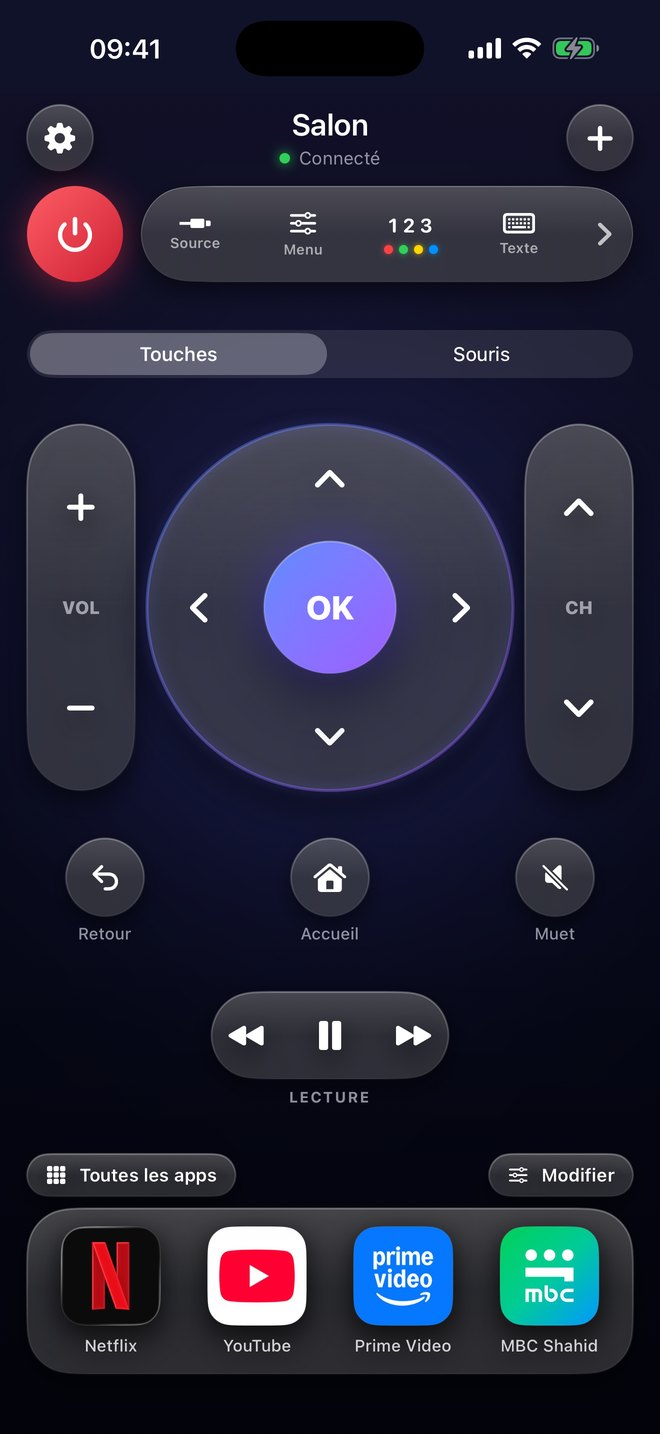
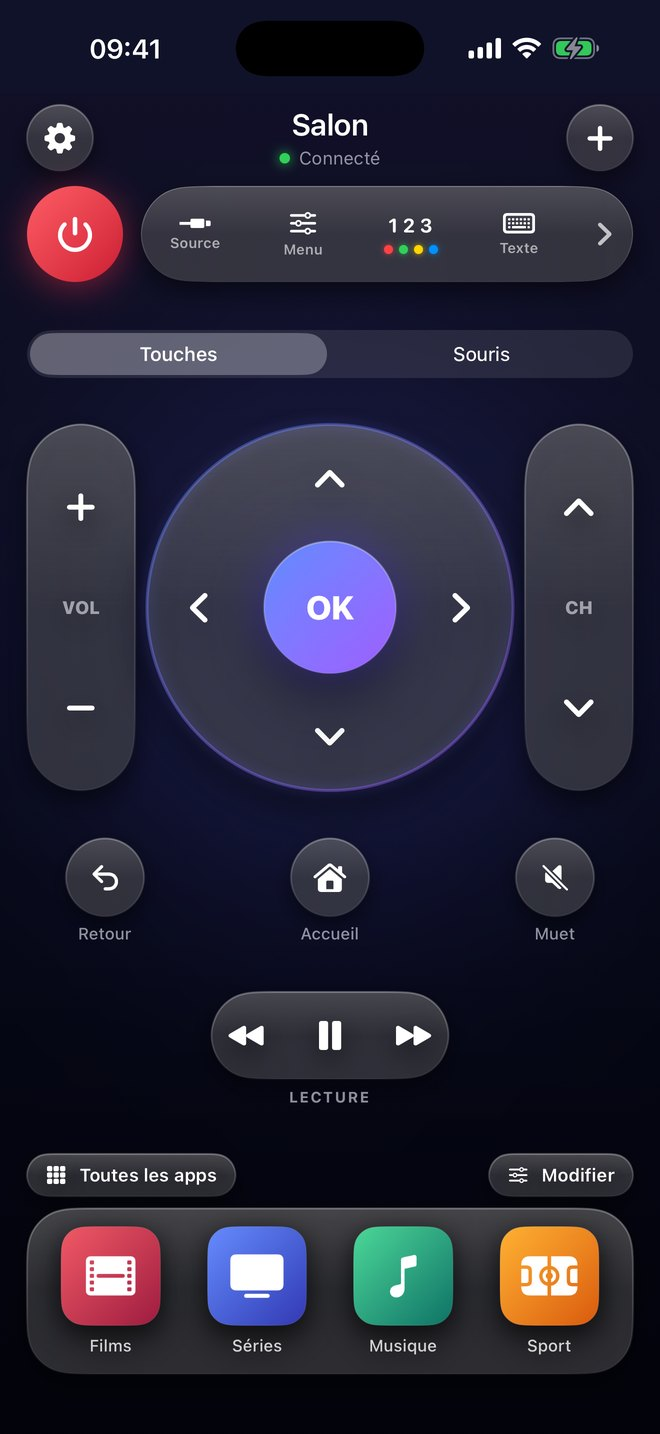
Website aktualisiert: neue Bilder, Uhr-Bild, Impressum ohne Telefonnummer

diff --git a/fr/index.html b/fr/index.html
@@ -38,12 +38,12 @@
     <h2>Comme une vraie télécommande.</h2>
     <p class="einleitung">En plus beau, et toujours sur vous. Tout ce qu’il faut pour la soirée sur un seul écran, sans défiler.</p>
     <div class="karten">
-      <div class="karte"><div class="zeichen">🎚</div><h3>Des touches à toucher</h3><p>Le volume et les chaînes sont de longues touches à bascule qui s’inclinent. La croix directionnelle s’enfonce et chaque touche clique.</p></div>
-      <div class="karte"><div class="zeichen">📺</div><h3>Des apps d’un toucher</h3><p>Lancez Shahid, Netflix, YouTube, Prime Video et toutes les autres apps de votre téléviseur. Vos favorites sont dans la barre du bas.</p></div>
-      <div class="karte"><div class="zeichen">🔊</div><h3>Boutons de l’iPhone pour le volume</h3><p>Tant que l’app est ouverte, les boutons de volume de l’iPhone règlent le téléviseur.</p></div>
-      <div class="karte"><div class="zeichen">🗣</div><h3>Siri et Raccourcis</h3><p>« Shahid avec Teek Taike », « Volume plus avec Teek Taike ». Aussi dans le Centre de contrôle et comme minuterie avec une automatisation.</p></div>
-      <div class="karte"><div class="zeichen">⌨</div><h3>Pavé tactile et clavier</h3><p>Pour la recherche dans les apps et le navigateur du téléviseur : tapez au lieu de choisir chaque lettre.</p></div>
-      <div class="karte"><div class="zeichen">🌍</div><h3>Français, anglais, allemand</h3><p>L’app parle la langue de votre iPhone. Passez d’un téléviseur à l’autre d’un glissement.</p></div>
+      <div class="karte"><div class="zeichen" style="--symbol:url(../bilder/symbole/tippen.png)"></div><h3>Des touches à toucher</h3><p>Le volume et les chaînes sont de longues touches à bascule qui s’inclinent. La croix directionnelle s’enfonce et chaque touche clique.</p></div>
+      <div class="karte"><div class="zeichen" style="--symbol:url(../bilder/symbole/apps.png)"></div><h3>Des apps d’un toucher</h3><p>Lancez vos apps de streaming et toutes les autres apps de votre téléviseur. Vos favorites sont dans la barre du bas.</p></div>
+      <div class="karte"><div class="zeichen" style="--symbol:url(../bilder/symbole/lautstaerke.png)"></div><h3>Boutons de l’iPhone pour le volume</h3><p>Tant que l’app est ouverte, les boutons de volume de l’iPhone règlent le téléviseur.</p></div>
+      <div class="karte"><div class="zeichen" style="--symbol:url(../bilder/symbole/mikrofon.png)"></div><h3>Siri et Raccourcis</h3><p>« Volume plus avec Teek Taike », « Éteins la télé avec Teek Taike ». Aussi dans le Centre de contrôle et comme minuterie avec une automatisation.</p></div>
+      <div class="karte"><div class="zeichen" style="--symbol:url(../bilder/symbole/tastatur.png)"></div><h3>Pavé tactile et clavier</h3><p>Pour la recherche dans les apps et le navigateur du téléviseur : tapez au lieu de choisir chaque lettre.</p></div>
+      <div class="karte"><div class="zeichen" style="--symbol:url(../bilder/symbole/sprachen.png)"></div><h3>Français, anglais, allemand</h3><p>L’app parle la langue de votre iPhone. Passez d’un téléviseur à l’autre d’un glissement.</p></div>
     </div>
   </section>
 
@@ -70,10 +70,9 @@
     <h2>Quels téléviseurs ?</h2>
     <p class="einleitung">Le téléviseur et l’iPhone doivent être sur le même Wi‑Fi. À la première connexion, le téléviseur demande une fois « Autoriser ? », ensuite tout fonctionne tout seul.</p>
     <div class="tvliste">
-      <div class="karte"><span class="status ja">Compatible</span><h3>Samsung Smart TV</h3><p>Avec Tizen, à partir des modèles 2016 environ. Testé avec un Samsung QLED de 2025. Pour l’allumer via le Wi‑Fi, activez « Allumer avec un mobile » (Paramètres › Général › Réseau › Paramètres experts).</p></div>
-      <div class="karte"><span class="status bald">En préparation</span><h3>LG webOS, Sony Bravia et Roku</h3><p>Déjà intégrés, ils arriveront par une mise à jour une fois testés sur de vrais appareils.</p></div>
-      <div class="karte"><span class="status nein">Pas encore</span><h3>Autres</h3><p>Hisense, Philips, Google TV, Android TV et Fire TV ne sont pas encore pris en charge.</p></div>
-      <div class="karte"><span class="status ja">Bon à savoir</span><h3>Les apps appartiennent à leurs éditeurs</h3><p>Les apps fonctionnent sur votre téléviseur. Teek Taike ne fait que les lancer et n’a aucun lien avec les fabricants ou les éditeurs.</p></div>
+      <div class="karte"><div class="zeichen klein" style="--symbol:url(../bilder/symbole/fernseher.png)"></div><span class="status ja">Compatible</span><h3>Samsung Smart TV</h3><p>Avec Tizen, à partir des modèles 2016 environ. Testé avec un Samsung QLED de 2025. Pour l’allumer via le Wi‑Fi, activez « Allumer avec un mobile » (Paramètres › Général › Réseau › Paramètres experts).</p></div>
+      <div class="karte"><div class="zeichen klein" style="--symbol:url(../bilder/symbole/wlan.png)"></div><span class="status bald">En préparation</span><h3>D’autres marques</h3><p>D’autres téléviseurs arriveront par une mise à jour une fois testés sur de vrais appareils.</p></div>
+      <div class="karte"><div class="zeichen klein" style="--symbol:url(../bilder/symbole/apps.png)"></div><span class="status ja">Bon à savoir</span><h3>Les apps appartiennent à leurs éditeurs</h3><p>Les apps fonctionnent sur votre téléviseur. Teek Taike ne fait que les lancer et n’a aucun lien avec les fabricants ou les éditeurs.</p></div>
     </div>
   </section>
 
@@ -81,8 +80,8 @@
     <h2>Vos données restent chez vous.</h2>
     <p class="einleitung">Pas de compte, pas de publicité, pas d’analyse, pas de suivi. L’app communique directement avec votre téléviseur sur le Wi‑Fi.</p>
     <div class="schutz">
-      <div class="karte"><h3>Ce qui est enregistré</h3><p>Uniquement sur votre iPhone : le nom et l’adresse de vos téléviseurs et l’autorisation accordée avec « Autoriser ». Supprimez le téléviseur ou l’app, et tout est effacé.</p></div>
-      <div class="karte"><h3>La seule connexion à Internet</h3><p>Pour les icônes, Teek Taike interroge la recherche publique de l’App Store d’Apple avec le nom de l’app, par exemple « Netflix ». Aucune donnée vous concernant n’est envoyée.</p></div>
+      <div class="karte"><div class="zeichen klein" style="--symbol:url(../bilder/symbole/schutz.png)"></div><h3>Ce qui est enregistré</h3><p>Uniquement sur votre iPhone : le nom et l’adresse de vos téléviseurs et l’autorisation accordée avec « Autoriser ». Supprimez le téléviseur ou l’app, et tout est effacé.</p></div>
+      <div class="karte"><div class="zeichen klein" style="--symbol:url(../bilder/symbole/wlan.png)"></div><h3>La seule connexion à Internet</h3><p>Pour les icônes, Teek Taike interroge la recherche publique de l’App Store d’Apple avec le nom de l’app. Aucune donnée vous concernant n’est envoyée.</p></div>
     </div>
     <p style="margin-top:22px"><a href="confidentialite.html">Lire la politique de confidentialité complète →</a></p>
   </section>

diff --git a/index.html b/index.html
@@ -38,12 +38,12 @@
     <h2>Wie eine echte Fernbedienung.</h2>
     <p class="einleitung">Nur schöner, und immer dabei. Alles, was du am Abend brauchst, auf einem Bildschirm, ohne Scrollen.</p>
     <div class="karten">
-      <div class="karte"><div class="zeichen">🎚</div><h3>Tasten zum Anfassen</h3><p>Lautstärke und Programm sind lange Wipptasten, die beim Drücken kippen. Das Steuerkreuz gibt nach, jede Taste klickt spürbar.</p></div>
-      <div class="karte"><div class="zeichen">📺</div><h3>Apps mit einem Tipp</h3><p>Shahid, Netflix, YouTube, Prime Video und alle anderen Apps deines Fernsehers direkt starten. Deine Lieblinge liegen unten in der Leiste.</p></div>
-      <div class="karte"><div class="zeichen">🔊</div><h3>iPhone-Tasten als Lautstärke</h3><p>Solange die App offen ist, regeln die Lautstärketasten am iPhone den Fernseher.</p></div>
-      <div class="karte"><div class="zeichen">🗣</div><h3>Siri und Kurzbefehle</h3><p>„Shahid mit Teek Taike“, „Lauter mit Teek Taike“. Auch im Kontrollzentrum und als Schlaf-Timer über eine Automation.</p></div>
-      <div class="karte"><div class="zeichen">⌨</div><h3>Touchpad und Tastatur</h3><p>Für die Suche in Apps und den Browser am Fernseher: tippen statt Buchstaben einzeln auswählen.</p></div>
-      <div class="karte"><div class="zeichen">🌍</div><h3>Deutsch, Englisch, Französisch</h3><p>Die App spricht die Sprache deines iPhones. Mehrere Fernseher wechselst du mit einem Wisch.</p></div>
+      <div class="karte"><div class="zeichen" style="--symbol:url(bilder/symbole/tippen.png)"></div><h3>Tasten zum Anfassen</h3><p>Lautstärke und Programm sind lange Wipptasten, die beim Drücken kippen. Das Steuerkreuz gibt nach, jede Taste klickt spürbar.</p></div>
+      <div class="karte"><div class="zeichen" style="--symbol:url(bilder/symbole/apps.png)"></div><h3>Apps mit einem Tipp</h3><p>Deine Streaming-Apps und alle anderen Apps deines Fernsehers direkt starten. Deine Lieblinge liegen unten in der Leiste.</p></div>
+      <div class="karte"><div class="zeichen" style="--symbol:url(bilder/symbole/lautstaerke.png)"></div><h3>iPhone-Tasten als Lautstärke</h3><p>Solange die App offen ist, regeln die Lautstärketasten am iPhone den Fernseher.</p></div>
+      <div class="karte"><div class="zeichen" style="--symbol:url(bilder/symbole/mikrofon.png)"></div><h3>Siri und Kurzbefehle</h3><p>„Lauter mit Teek Taike“, „Fernseher aus mit Teek Taike“. Auch im Kontrollzentrum und als Schlaf-Timer über eine Automation.</p></div>
+      <div class="karte"><div class="zeichen" style="--symbol:url(bilder/symbole/tastatur.png)"></div><h3>Touchpad und Tastatur</h3><p>Für die Suche in Apps und den Browser am Fernseher: tippen statt Buchstaben einzeln auswählen.</p></div>
+      <div class="karte"><div class="zeichen" style="--symbol:url(bilder/symbole/sprachen.png)"></div><h3>Deutsch, Englisch, Französisch</h3><p>Die App spricht die Sprache deines iPhones. Mehrere Fernseher wechselst du mit einem Wisch.</p></div>
     </div>
   </section>
 
@@ -70,10 +70,9 @@
     <h2>Welche Fernseher?</h2>
     <p class="einleitung">Fernseher und iPhone müssen im selben WLAN sein. Beim ersten Verbinden fragt der Fernseher einmal „Zulassen?“, danach geht alles von selbst.</p>
     <div class="tvliste">
-      <div class="karte"><span class="status ja">Funktioniert</span><h3>Samsung Smart TV</h3><p>Mit Tizen, ungefähr ab Baujahr 2016. Getestet mit einem Samsung QLED von 2025. Zum Einschalten über das WLAN am Fernseher „Mit Mobilgerät einschalten“ aktivieren (Einstellungen › Allgemein › Netzwerk › Experteneinstellungen).</p></div>
-      <div class="karte"><span class="status bald">In Vorbereitung</span><h3>LG webOS, Sony Bravia und Roku</h3><p>Schon eingebaut, kommen per Update, sobald sie an echten Geräten getestet sind.</p></div>
-      <div class="karte"><span class="status nein">Noch nicht</span><h3>Andere</h3><p>Hisense, Philips, Google TV, Android TV und Fire TV werden noch nicht unterstützt.</p></div>
-      <div class="karte"><span class="status ja">Gut zu wissen</span><h3>Apps gehören ihren Anbietern</h3><p>Die Apps laufen auf deinem Fernseher. Teek Taike startet sie nur und ist nicht mit den Herstellern oder App-Anbietern verbunden.</p></div>
+      <div class="karte"><div class="zeichen klein" style="--symbol:url(bilder/symbole/fernseher.png)"></div><span class="status ja">Funktioniert</span><h3>Samsung Smart TV</h3><p>Mit Tizen, ungefähr ab Baujahr 2016. Getestet mit einem Samsung QLED von 2025. Zum Einschalten über das WLAN am Fernseher „Mit Mobilgerät einschalten“ aktivieren (Einstellungen › Allgemein › Netzwerk › Experteneinstellungen).</p></div>
+      <div class="karte"><div class="zeichen klein" style="--symbol:url(bilder/symbole/wlan.png)"></div><span class="status bald">In Vorbereitung</span><h3>Weitere Marken</h3><p>Weitere Fernseher kommen per Update, sobald sie an echten Geräten getestet sind.</p></div>
+      <div class="karte"><div class="zeichen klein" style="--symbol:url(bilder/symbole/apps.png)"></div><span class="status ja">Gut zu wissen</span><h3>Apps gehören ihren Anbietern</h3><p>Die Apps laufen auf deinem Fernseher. Teek Taike startet sie nur und ist nicht mit den Herstellern oder App-Anbietern verbunden.</p></div>
     </div>
   </section>
 
@@ -81,8 +80,8 @@
     <h2>Deine Daten bleiben bei dir.</h2>
     <p class="einleitung">Kein Konto, keine Werbung, keine Analyse, kein Tracking. Die App spricht direkt mit deinem Fernseher im WLAN.</p>
     <div class="schutz">
-      <div class="karte"><h3>Was gespeichert wird</h3><p>Nur auf deinem iPhone: Name und Adresse deiner Fernseher und die Freigabe, die der Fernseher beim „Zulassen“ vergibt. Fernseher entfernen oder App löschen, und alles ist weg.</p></div>
-      <div class="karte"><h3>Die einzige Verbindung ins Internet</h3><p>Für die App-Symbole fragt Teek Taike die öffentliche App-Store-Suche von Apple nach dem Namen der App, zum Beispiel „Netflix“. Daten über dich werden nicht mitgeschickt.</p></div>
+      <div class="karte"><div class="zeichen klein" style="--symbol:url(bilder/symbole/schutz.png)"></div><h3>Was gespeichert wird</h3><p>Nur auf deinem iPhone: Name und Adresse deiner Fernseher und die Freigabe, die der Fernseher beim „Zulassen“ vergibt. Fernseher entfernen oder App löschen, und alles ist weg.</p></div>
+      <div class="karte"><div class="zeichen klein" style="--symbol:url(bilder/symbole/wlan.png)"></div><h3>Die einzige Verbindung ins Internet</h3><p>Für die App-Symbole fragt Teek Taike die öffentliche App-Store-Suche von Apple nach dem Namen der App. Daten über dich werden nicht mitgeschickt.</p></div>
     </div>
     <p style="margin-top:22px"><a href="datenschutz.html">Ausführliche Datenschutzerklärung lesen →</a></p>
   </section>

diff --git a/en/index.html b/en/index.html
@@ -38,12 +38,12 @@
     <h2>Just like a real remote.</h2>
     <p class="einleitung">Only nicer, and always with you. Everything you need in the evening on one screen, no scrolling.</p>
     <div class="karten">
-      <div class="karte"><div class="zeichen">🎚</div><h3>Keys you can feel</h3><p>Volume and channel are long rocker keys that tilt when pressed. The D-pad gives way and every key clicks.</p></div>
-      <div class="karte"><div class="zeichen">📺</div><h3>Apps with one tap</h3><p>Start Shahid, Netflix, YouTube, Prime Video and every other app on your TV. Your favorites sit in the bar at the bottom.</p></div>
-      <div class="karte"><div class="zeichen">🔊</div><h3>iPhone buttons as volume</h3><p>While the app is open, the iPhone’s volume buttons control the TV.</p></div>
-      <div class="karte"><div class="zeichen">🗣</div><h3>Siri and Shortcuts</h3><p>“Shahid with Teek Taike”, “Volume up with Teek Taike”. Also in Control Center and as a sleep timer with an automation.</p></div>
-      <div class="karte"><div class="zeichen">⌨</div><h3>Touchpad and keyboard</h3><p>For search in apps and the TV’s browser: type instead of picking letters one by one.</p></div>
-      <div class="karte"><div class="zeichen">🌍</div><h3>English, German, French</h3><p>The app speaks your iPhone’s language. Switch between several TVs with a swipe.</p></div>
+      <div class="karte"><div class="zeichen" style="--symbol:url(../bilder/symbole/tippen.png)"></div><h3>Keys you can feel</h3><p>Volume and channel are long rocker keys that tilt when pressed. The D-pad gives way and every key clicks.</p></div>
+      <div class="karte"><div class="zeichen" style="--symbol:url(../bilder/symbole/apps.png)"></div><h3>Apps with one tap</h3><p>Start your streaming apps and every other app on your TV. Your favorites sit in the bar at the bottom.</p></div>
+      <div class="karte"><div class="zeichen" style="--symbol:url(../bilder/symbole/lautstaerke.png)"></div><h3>iPhone buttons as volume</h3><p>While the app is open, the iPhone’s volume buttons control the TV.</p></div>
+      <div class="karte"><div class="zeichen" style="--symbol:url(../bilder/symbole/mikrofon.png)"></div><h3>Siri and Shortcuts</h3><p>“Volume up with Teek Taike”, “Turn off the TV with Teek Taike”. Also in Control Center and as a sleep timer with an automation.</p></div>
+      <div class="karte"><div class="zeichen" style="--symbol:url(../bilder/symbole/tastatur.png)"></div><h3>Touchpad and keyboard</h3><p>For search in apps and the TV’s browser: type instead of picking letters one by one.</p></div>
+      <div class="karte"><div class="zeichen" style="--symbol:url(../bilder/symbole/sprachen.png)"></div><h3>English, German, French</h3><p>The app speaks your iPhone’s language. Switch between several TVs with a swipe.</p></div>
     </div>
   </section>
 
@@ -70,10 +70,9 @@
     <h2>Which TVs?</h2>
     <p class="einleitung">The TV and the iPhone must be on the same Wi‑Fi. On first connection the TV asks once to “Allow”, after that everything just works.</p>
     <div class="tvliste">
-      <div class="karte"><span class="status ja">Works</span><h3>Samsung Smart TV</h3><p>With Tizen, roughly from 2016 models on. Tested with a 2025 Samsung QLED. To turn the TV on over Wi‑Fi, enable “Power On with Mobile” (Settings › General › Network › Expert Settings).</p></div>
-      <div class="karte"><span class="status bald">In preparation</span><h3>LG webOS, Sony Bravia and Roku</h3><p>Already built in, coming in an update once tested on real devices.</p></div>
-      <div class="karte"><span class="status nein">Not yet</span><h3>Others</h3><p>Hisense, Philips, Google TV, Android TV and Fire TV are not supported yet.</p></div>
-      <div class="karte"><span class="status ja">Good to know</span><h3>Apps belong to their providers</h3><p>The apps run on your TV. Teek Taike only starts them and is not affiliated with the manufacturers or app providers.</p></div>
+      <div class="karte"><div class="zeichen klein" style="--symbol:url(../bilder/symbole/fernseher.png)"></div><span class="status ja">Works</span><h3>Samsung Smart TV</h3><p>With Tizen, roughly from 2016 models on. Tested with a 2025 Samsung QLED. To turn the TV on over Wi‑Fi, enable “Power On with Mobile” (Settings › General › Network › Expert Settings).</p></div>
+      <div class="karte"><div class="zeichen klein" style="--symbol:url(../bilder/symbole/wlan.png)"></div><span class="status bald">In preparation</span><h3>More brands</h3><p>More TVs will come in an update once tested on real devices.</p></div>
+      <div class="karte"><div class="zeichen klein" style="--symbol:url(../bilder/symbole/apps.png)"></div><span class="status ja">Good to know</span><h3>Apps belong to their providers</h3><p>The apps run on your TV. Teek Taike only starts them and is not affiliated with the manufacturers or app providers.</p></div>
     </div>
   </section>
 
@@ -81,8 +80,8 @@
     <h2>Your data stays with you.</h2>
     <p class="einleitung">No account, no ads, no analytics, no tracking. The app talks directly to your TV on your Wi‑Fi.</p>
     <div class="schutz">
-      <div class="karte"><h3>What is stored</h3><p>Only on your iPhone: the name and address of your TVs and the permission the TV grants when you tap “Allow”. Remove the TV or delete the app, and everything is gone.</p></div>
-      <div class="karte"><h3>The only connection to the internet</h3><p>For app icons, Teek Taike asks Apple’s public App Store search for the app’s name, for example “Netflix”. No data about you is sent.</p></div>
+      <div class="karte"><div class="zeichen klein" style="--symbol:url(../bilder/symbole/schutz.png)"></div><h3>What is stored</h3><p>Only on your iPhone: the name and address of your TVs and the permission the TV grants when you tap “Allow”. Remove the TV or delete the app, and everything is gone.</p></div>
+      <div class="karte"><div class="zeichen klein" style="--symbol:url(../bilder/symbole/wlan.png)"></div><h3>The only connection to the internet</h3><p>For app icons, Teek Taike asks Apple’s public App Store search for the app’s name. No data about you is sent.</p></div>
     </div>
     <p style="margin-top:22px"><a href="privacy.html">Read the full privacy policy →</a></p>
   </section>

diff --git a/fr/confidentialite.html b/fr/confidentialite.html
@@ -23,11 +23,11 @@
   <h2>En bref</h2>
   <p>Teek Taike n’a ni compte, ni publicité, ni analyse, ni suivi. L’app communique directement avec votre téléviseur sur votre Wi‑Fi. En tant qu’éditeur, nous ne recevons aucune donnée vous concernant de la part de l’app.</p>
   <h2>1. Responsable du traitement</h2>
-  <p>Mohamed Ali Hussein, Daimlerstraße 10, 79585 Steinen, Allemagne<br>E-mail : <a href="mailto:info@venoqauto.de">info@venoqauto.de</a></p>
+  <p>Mohamed Ali Hussein · <a href="mentions-legales.html">Mentions légales</a><br>E-mail : <a href="mailto:info@venoqauto.de">info@venoqauto.de</a></p>
   <h2>2. L’app</h2>
   <p><strong>Connexion au téléviseur.</strong> L’app trouve les téléviseurs sur votre Wi‑Fi et leur envoie des appuis de touches et des lancements d’apps. Cette connexion passe directement entre votre iPhone et votre téléviseur. Elle ne passe pas par nos serveurs, nous n’en avons pas.</p>
   <p><strong>Ce qui est enregistré sur votre iPhone.</strong> Le nom, l’adresse réseau et l’adresse matérielle (MAC) de vos téléviseurs, l’autorisation accordée avec « Autoriser », votre choix de tuiles d’apps, les séquences de touches apprises et vos réglages. Ces données restent sur votre appareil. Elles disparaissent lorsque vous supprimez le téléviseur dans les réglages ou que vous supprimez l’app.</p>
-  <p><strong>Icônes des apps.</strong> Pour afficher les bonnes icônes, l’app interroge la recherche publique de l’App Store d’Apple avec le nom d’une app, par exemple « Netflix », et télécharge l’icône. Apple reçoit la requête et l’adresse IP de votre connexion Internet. Aucune donnée sur vous ou votre téléviseur n’est envoyée. Apple est responsable de ce traitement, selon sa politique de confidentialité (<a href="https://www.apple.com/fr/legal/privacy/" rel="noopener">apple.com/fr/legal/privacy</a>).</p>
+  <p><strong>Icônes des apps.</strong> Pour afficher les bonnes icônes, l’app interroge la recherche publique de l’App Store d’Apple avec le nom d’une app, et télécharge l’icône. Apple reçoit la requête et l’adresse IP de votre connexion Internet. Aucune donnée sur vous ou votre téléviseur n’est envoyée. Apple est responsable de ce traitement, selon sa politique de confidentialité (<a href="https://www.apple.com/fr/legal/privacy/" rel="noopener">apple.com/fr/legal/privacy</a>).</p>
   <p><strong>Réseau local.</strong> Au premier lancement, iOS demande si l’app peut trouver des appareils sur votre réseau local. Sans cette autorisation, l’app ne peut pas piloter votre téléviseur.</p>
   <p><strong>Siri, Raccourcis et Apple Watch.</strong> Lorsque vous utilisez Siri ou Raccourcis, Apple traite vos commandes vocales selon ses propres conditions. Entre l’Apple Watch et l’iPhone, seuls les touches appuyées, la liste de vos téléviseurs et vos tuiles d’apps sont transmis, via la connexion d’Apple entre vos propres appareils.</p>
   <p><strong>Rapports de plantage.</strong> Si vous avez accepté dans les réglages de l’iPhone de partager des analyses avec les développeurs, Apple nous transmet des rapports de plantage anonymes. Ils ne permettent d’identifier personne.</p>

diff --git a/datenschutz.html b/datenschutz.html
@@ -23,11 +23,11 @@
   <h2>Kurz gesagt</h2>
   <p>Teek Taike hat kein Konto, keine Werbung, keine Analyse und kein Tracking. Die App spricht direkt mit deinem Fernseher in deinem WLAN. Wir als Anbieter bekommen von der App keine Daten über dich.</p>
   <h2>1. Verantwortlicher</h2>
-  <p>Mohamed Ali Hussein, Daimlerstraße 10, 79585 Steinen, Deutschland<br>E-Mail: <a href="mailto:info@venoqauto.de">info@venoqauto.de</a></p>
+  <p>Mohamed Ali Hussein · <a href="impressum.html">Impressum</a><br>E-Mail: <a href="mailto:info@venoqauto.de">info@venoqauto.de</a></p>
   <h2>2. Die App</h2>
   <p><strong>Verbindung zum Fernseher.</strong> Die App findet Fernseher in deinem WLAN und sendet ihnen Tastendrücke und App-Starts. Diese Verbindung läuft direkt zwischen deinem iPhone und deinem Fernseher. Sie geht nicht über unsere Server, wir haben keine.</p>
   <p><strong>Was auf deinem iPhone gespeichert wird.</strong> Name, Netzwerkadresse und Hardware-Adresse (MAC) deiner Fernseher, die Freigabe, die der Fernseher beim „Zulassen“ vergibt, deine Auswahl an App-Kacheln, gelernte Tastenfolgen und deine Einstellungen. Diese Daten bleiben auf deinem Gerät. Sie verschwinden, wenn du den Fernseher in den Einstellungen entfernst oder die App löschst.</p>
-  <p><strong>App-Symbole.</strong> Um die Kacheln mit den richtigen Symbolen zu zeigen, fragt die App die öffentliche Suche des App Store von Apple nach dem Namen einer App, zum Beispiel „Netflix“, und lädt das Symbol. Dabei erhält Apple die Suchanfrage und die IP-Adresse deines Internetanschlusses. Es werden keine Daten über dich oder deinen Fernseher mitgeschickt. Für diese Verarbeitung ist Apple verantwortlich, es gilt die Datenschutzrichtlinie von Apple (<a href="https://www.apple.com/de/legal/privacy/" rel="noopener">apple.com/de/legal/privacy</a>).</p>
+  <p><strong>App-Symbole.</strong> Um die Kacheln mit den richtigen Symbolen zu zeigen, fragt die App die öffentliche Suche des App Store von Apple nach dem Namen einer App, und lädt das Symbol. Dabei erhält Apple die Suchanfrage und die IP-Adresse deines Internetanschlusses. Es werden keine Daten über dich oder deinen Fernseher mitgeschickt. Für diese Verarbeitung ist Apple verantwortlich, es gilt die Datenschutzrichtlinie von Apple (<a href="https://www.apple.com/de/legal/privacy/" rel="noopener">apple.com/de/legal/privacy</a>).</p>
   <p><strong>Lokales Netzwerk.</strong> iOS fragt beim ersten Start, ob die App Geräte im lokalen Netzwerk finden darf. Ohne diese Erlaubnis kann die App deinen Fernseher nicht steuern.</p>
   <p><strong>Siri, Kurzbefehle und Apple Watch.</strong> Wenn du Siri oder Kurzbefehle nutzt, verarbeitet Apple deine Sprachbefehle nach seinen eigenen Bestimmungen. Zwischen Apple Watch und iPhone werden nur die gedrückten Tasten, die Liste deiner Fernseher und deine App-Kacheln übertragen, über die Verbindung von Apple zwischen deinen eigenen Geräten.</p>
   <p><strong>Absturzberichte.</strong> Wenn du in den iPhone-Einstellungen zugestimmt hast, Analysedaten mit App-Entwicklern zu teilen, stellt Apple uns anonyme Absturzberichte zur Verfügung. Daraus können wir keine Person erkennen.</p>

diff --git a/en/privacy.html b/en/privacy.html
@@ -23,11 +23,11 @@
   <h2>In short</h2>
   <p>Teek Taike has no account, no ads, no analytics and no tracking. The app talks directly to your TV on your Wi‑Fi. As the provider, we receive no data about you from the app.</p>
   <h2>1. Controller</h2>
-  <p>Mohamed Ali Hussein, Daimlerstraße 10, 79585 Steinen, Germany<br>Email: <a href="mailto:info@venoqauto.de">info@venoqauto.de</a></p>
+  <p>Mohamed Ali Hussein · <a href="imprint.html">Imprint</a><br>Email: <a href="mailto:info@venoqauto.de">info@venoqauto.de</a></p>
   <h2>2. The app</h2>
   <p><strong>Connection to the TV.</strong> The app finds TVs on your Wi‑Fi and sends them key presses and app launches. This connection runs directly between your iPhone and your TV. It does not go through our servers, we don’t have any.</p>
   <p><strong>What is stored on your iPhone.</strong> The name, network address and hardware address (MAC) of your TVs, the permission the TV grants when you tap “Allow”, your choice of app tiles, learned key sequences and your settings. This data stays on your device. It is removed when you remove the TV in the settings or delete the app.</p>
-  <p><strong>App icons.</strong> To show the tiles with the right icons, the app asks Apple’s public App Store search for an app’s name, for example “Netflix”, and downloads the icon. Apple receives the search request and your internet connection’s IP address. No data about you or your TV is sent. Apple is responsible for this processing, under Apple’s privacy policy (<a href="https://www.apple.com/legal/privacy/" rel="noopener">apple.com/legal/privacy</a>).</p>
+  <p><strong>App icons.</strong> To show the tiles with the right icons, the app asks Apple’s public App Store search for an app’s name, and downloads the icon. Apple receives the search request and your internet connection’s IP address. No data about you or your TV is sent. Apple is responsible for this processing, under Apple’s privacy policy (<a href="https://www.apple.com/legal/privacy/" rel="noopener">apple.com/legal/privacy</a>).</p>
   <p><strong>Local network.</strong> On first launch, iOS asks whether the app may find devices on your local network. Without this permission, the app cannot control your TV.</p>
   <p><strong>Siri, Shortcuts and Apple Watch.</strong> When you use Siri or Shortcuts, Apple processes your voice commands under its own terms. Between Apple Watch and iPhone, only the pressed keys, the list of your TVs and your app tiles are transferred, over Apple’s connection between your own devices.</p>
   <p><strong>Crash reports.</strong> If you agreed in the iPhone settings to share analytics with app developers, Apple provides us with anonymous crash reports. We cannot identify anyone from them.</p>

diff --git a/impressum.html b/impressum.html
@@ -21,11 +21,11 @@
   <h1>Impressum</h1>
   <p class="stand">Angaben gemäß § 5 Digitale-Dienste-Gesetz (DDG)</p>
   <h2>Anbieter</h2><p>Mohamed Ali Hussein<br>Daimlerstraße 10<br>79585 Steinen<br>Deutschland</p>
-  <h2>Kontakt</h2><p>E-Mail: <a href="mailto:info@venoqauto.de">info@venoqauto.de</a><br>Telefon: +49 176 96084998</p>
+  <h2>Kontakt</h2><p>E-Mail: <a href="mailto:info@venoqauto.de">info@venoqauto.de</a></p>
   <h2>Umsatzsteuer</h2><p>Umsatzsteuer-Identifikationsnummer gemäß § 27 a Umsatzsteuergesetz: DE402063042</p>
   <h2>Verantwortlich für den Inhalt</h2><p>Mohamed Ali Hussein, Anschrift wie oben.</p>
   <h2>Streitbeilegung</h2><p>Wir sind nicht bereit und nicht verpflichtet, an einem Streitbeilegungsverfahren vor einer Verbraucherschlichtungsstelle teilzunehmen.</p>
-  <h2>Marken und Inhalte Dritter</h2><p>Teek Taike ist eine unabhängige App und nicht mit Samsung, LG, Sony, Hisense oder den Anbietern der gezeigten Apps verbunden. Alle Marken, Namen und App-Symbole gehören ihren jeweiligen Inhabern. Die Apps laufen auf dem Fernseher, Teek Taike startet sie nur.</p>
+  <h2>Marken und Inhalte Dritter</h2><p>Teek Taike ist eine unabhängige App und nicht mit Samsung oder den Anbietern von Apps verbunden. Alle Marken und Namen gehören ihren jeweiligen Inhabern. Die Apps laufen auf dem Fernseher, Teek Taike startet sie nur.</p>
   <h2>Haftung für Inhalte</h2><p>Die Inhalte dieser Seiten wurden mit Sorgfalt erstellt. Für die Richtigkeit, Vollständigkeit und Aktualität können wir jedoch keine Gewähr übernehmen. Als Diensteanbieter sind wir für eigene Inhalte nach den allgemeinen Gesetzen verantwortlich, jedoch nicht verpflichtet, übermittelte oder gespeicherte fremde Informationen zu überwachen.</p>
   <h2>Haftung für Links</h2><p>Diese Seite enthält Links zu Websites Dritter, auf deren Inhalte wir keinen Einfluss haben. Für die Inhalte der verlinkten Seiten ist stets der jeweilige Anbieter verantwortlich.</p>
   <h2>Urheberrecht</h2><p>Texte, Bilder und Bildschirmfotos auf dieser Seite unterliegen dem deutschen Urheberrecht. Eine Verwendung außerhalb der gesetzlichen Schranken bedarf der schriftlichen Zustimmung.</p>

diff --git a/fr/mentions-legales.html b/fr/mentions-legales.html
@@ -21,11 +21,11 @@
   <h1>Mentions légales</h1>
   <p class="stand">Informations selon le § 5 de la loi allemande sur les services numériques (DDG). En cas de doute, la version allemande fait foi.</p>
   <h2>Éditeur</h2><p>Mohamed Ali Hussein<br>Daimlerstraße 10<br>79585 Steinen<br>Allemagne</p>
-  <h2>Contact</h2><p>E-mail : <a href="mailto:info@venoqauto.de">info@venoqauto.de</a><br>Téléphone : +49 176 96084998</p>
+  <h2>Contact</h2><p>E-mail : <a href="mailto:info@venoqauto.de">info@venoqauto.de</a></p>
   <h2>TVA</h2><p>Numéro d’identification à la TVA selon le § 27 a de la loi allemande sur la TVA : DE402063042</p>
   <h2>Responsable du contenu</h2><p>Mohamed Ali Hussein, adresse ci-dessus.</p>
   <h2>Règlement des litiges</h2><p>Nous ne sommes ni disposés ni obligés à participer à une procédure de règlement des litiges devant un organisme de médiation de la consommation.</p>
-  <h2>Marques et contenus de tiers</h2><p>Teek Taike est une app indépendante, sans lien avec Samsung, LG, Sony, Hisense ni les éditeurs des apps présentées. Toutes les marques, noms et icônes appartiennent à leurs propriétaires respectifs. Les apps fonctionnent sur le téléviseur, Teek Taike ne fait que les lancer.</p>
+  <h2>Marques et contenus de tiers</h2><p>Teek Taike est une app indépendante, sans lien avec Samsung ni les éditeurs d’apps. Toutes les marques et tous les noms appartiennent à leurs propriétaires respectifs. Les apps fonctionnent sur le téléviseur, Teek Taike ne fait que les lancer.</p>
   <h2>Responsabilité du contenu</h2><p>Le contenu de ces pages a été rédigé avec soin. Nous ne pouvons toutefois garantir son exactitude, son exhaustivité ni son actualité.</p>
   <h2>Responsabilité des liens</h2><p>Ce site contient des liens vers des sites tiers dont nous ne maîtrisons pas le contenu. Le contenu des pages liées relève toujours de leur éditeur.</p>
   <h2>Droit d’auteur</h2><p>Les textes, images et captures d’écran de ce site sont soumis au droit d’auteur allemand. Toute utilisation au-delà des limites légales nécessite un accord écrit.</p>

diff --git a/en/imprint.html b/en/imprint.html
@@ -21,11 +21,11 @@
   <h1>Imprint</h1>
   <p class="stand">Information pursuant to § 5 of the German Digital Services Act (DDG). In case of doubt, the German version applies.</p>
   <h2>Provider</h2><p>Mohamed Ali Hussein<br>Daimlerstraße 10<br>79585 Steinen<br>Germany</p>
-  <h2>Contact</h2><p>Email: <a href="mailto:info@venoqauto.de">info@venoqauto.de</a><br>Phone: +49 176 96084998</p>
+  <h2>Contact</h2><p>Email: <a href="mailto:info@venoqauto.de">info@venoqauto.de</a></p>
   <h2>VAT</h2><p>VAT identification number pursuant to § 27 a of the German VAT Act: DE402063042</p>
   <h2>Responsible for content</h2><p>Mohamed Ali Hussein, address as above.</p>
   <h2>Dispute resolution</h2><p>We are neither willing nor obliged to take part in dispute resolution proceedings before a consumer arbitration board.</p>
-  <h2>Third-party trademarks and content</h2><p>Teek Taike is an independent app and is not affiliated with Samsung, LG, Sony, Hisense or the providers of the apps shown. All trademarks, names and app icons belong to their respective owners. The apps run on the TV, Teek Taike only starts them.</p>
+  <h2>Third-party trademarks and content</h2><p>Teek Taike is an independent app and is not affiliated with Samsung or any app provider. All trademarks and names belong to their respective owners. The apps run on the TV, Teek Taike only starts them.</p>
   <h2>Liability for content</h2><p>The content of these pages was created with care. However, we cannot guarantee that it is correct, complete or up to date.</p>
   <h2>Liability for links</h2><p>This site contains links to third-party websites whose content we cannot influence. The respective provider is always responsible for the content of linked pages.</p>
   <h2>Copyright</h2><p>Texts, images and screenshots on this site are subject to German copyright law. Any use beyond the legal limits requires written consent.</p>

diff --git a/style.css b/style.css
@@ -65,7 +65,10 @@ h2 { font-size: clamp(30px, 4vw, 46px); font-weight: 900; letter-spacing: -0.8px
 .karten { display: grid; grid-template-columns: repeat(3, 1fr); gap: 18px; }
 .karte { background: linear-gradient(180deg, rgba(255,255,255,0.08), rgba(255,255,255,0.03)); border: 1px solid var(--rand);
   border-radius: 24px; padding: 26px; box-shadow: 0 12px 30px rgba(0,0,0,0.35); }
-.karte .zeichen { font-size: 30px; margin-bottom: 12px; }
+.karte .zeichen { width: 46px; height: 46px; margin-bottom: 14px;
+  background: linear-gradient(135deg, var(--akzent1), var(--akzent2));
+  -webkit-mask: var(--symbol) center / contain no-repeat; mask: var(--symbol) center / contain no-repeat; }
+.karte .zeichen.klein { width: 34px; height: 34px; margin-bottom: 10px; }
 .karte h3 { font-size: 19px; margin-bottom: 6px; }
 .karte p { color: var(--leise); font-size: 15.5px; }
 
@@ -79,7 +82,7 @@ h2 { font-size: clamp(30px, 4vw, 46px); font-weight: 900; letter-spacing: -0.8px
 .uhrreihe img { width: 190px; border-radius: 48px; border: 10px solid #2a2c40; background: #000; box-shadow: 0 24px 60px rgba(0,0,0,0.7); }
 .uhrreihe figcaption { color: var(--leise); font-size: 14px; margin-top: 10px; }
 
-.tvliste { display: grid; grid-template-columns: repeat(2, 1fr); gap: 18px; }
+.tvliste { display: grid; grid-template-columns: repeat(3, 1fr); gap: 18px; }
 .status { display: inline-block; font-size: 13px; font-weight: 700; padding: 4px 11px; border-radius: 999px; margin-bottom: 10px; }
 .status.ja { background: rgba(52,199,89,0.16); color: #5be37f; }
 .status.bald { background: rgba(255,159,10,0.16); color: #ffb340; }

diff --git a/fr/assistance.html b/fr/assistance.html
@@ -32,7 +32,7 @@
   <h2>Les boutons de volume de l’iPhone ne font rien.</h2>
   <p>Ils ne pilotent le téléviseur que lorsque Teek Taike est ouverte. Vous pouvez l’activer ou le désactiver dans l’app sous la roue dentée › Boutons de volume de l’iPhone.</p>
   <h2>Comment utiliser Siri et le Centre de contrôle ?</h2>
-  <p>Dites par exemple « Shahid avec Teek Taike » ou « Volume plus avec Teek Taike ». Dans l’app Raccourcis, vous trouvez toutes les commandes sous Teek Taike et pouvez les ajouter au Centre de contrôle, à l’écran verrouillé ou à une automatisation, par exemple comme minuterie.</p>
+  <p>Dites par exemple « Volume plus avec Teek Taike » ou « Éteins la télé avec Teek Taike ». Dans l’app Raccourcis, vous trouvez toutes les commandes sous Teek Taike et pouvez les ajouter au Centre de contrôle, à l’écran verrouillé ou à une automatisation, par exemple comme minuterie.</p>
   <h2>L’Apple Watch affiche « iPhone injoignable ».</h2>
   <p>L’iPhone doit être à proximité, avec Bluetooth ou Wi‑Fi. Ouvrez une fois Teek Taike sur l’iPhone, la montre reçoit alors vos téléviseurs et vos tuiles.</p>
   <h2>Une app ne se lance pas sur le téléviseur.</h2>

diff --git a/support.html b/support.html
@@ -32,7 +32,7 @@
   <h2>Die Lautstärketasten am iPhone tun nichts.</h2>
   <p>Sie steuern den Fernseher nur, solange Teek Taike offen ist. In der App unter Zahnrad › iPhone-Lautstärketasten lässt sich das ein- und ausschalten.</p>
   <h2>Wie benutze ich Siri und das Kontrollzentrum?</h2>
-  <p>Sag zum Beispiel „Shahid mit Teek Taike“ oder „Lauter mit Teek Taike“. In der Kurzbefehle-App findest du unter Teek Taike alle Befehle und kannst sie ins Kontrollzentrum, auf den Sperrbildschirm oder als Automation, etwa als Schlaf-Timer, legen.</p>
+  <p>Sag zum Beispiel „Lauter mit Teek Taike“ oder „Fernseher aus mit Teek Taike“. In der Kurzbefehle-App findest du unter Teek Taike alle Befehle und kannst sie ins Kontrollzentrum, auf den Sperrbildschirm oder als Automation, etwa als Schlaf-Timer, legen.</p>
   <h2>Die Apple Watch zeigt „iPhone nicht erreichbar“.</h2>
   <p>Das iPhone muss in der Nähe sein, mit Bluetooth oder WLAN. Öffne Teek Taike einmal auf dem iPhone, dann bekommt die Uhr deine Fernseher und Kacheln.</p>
   <h2>Eine App startet nicht am Fernseher.</h2>
